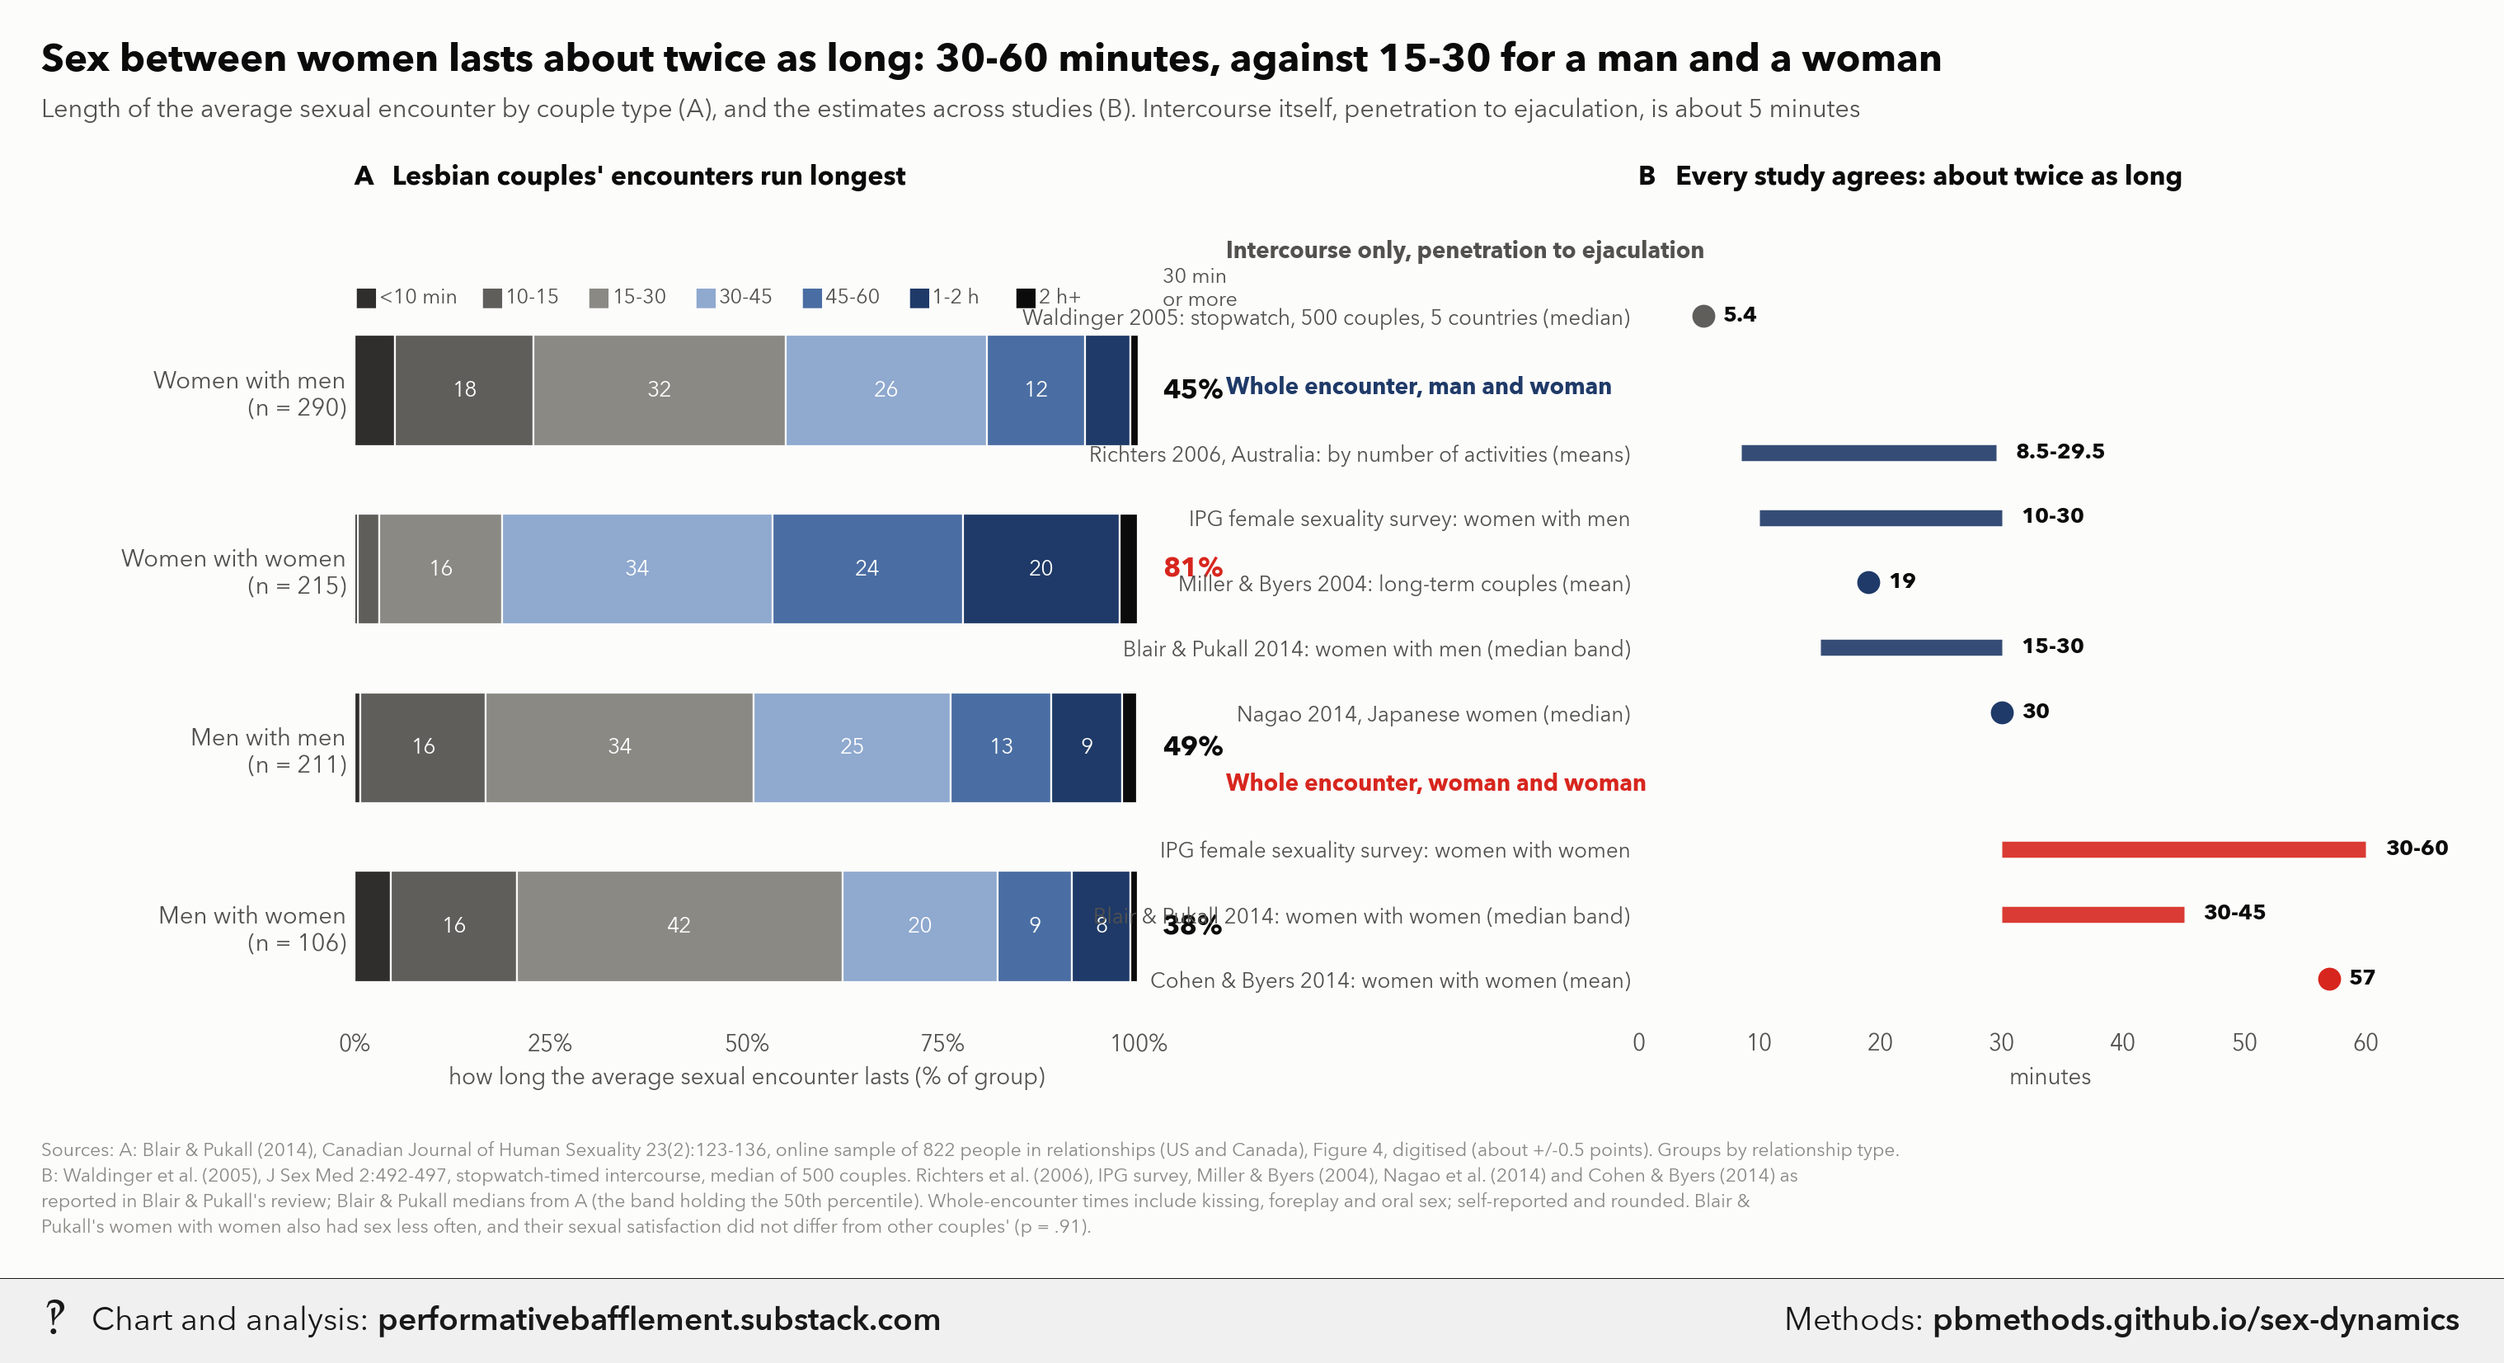
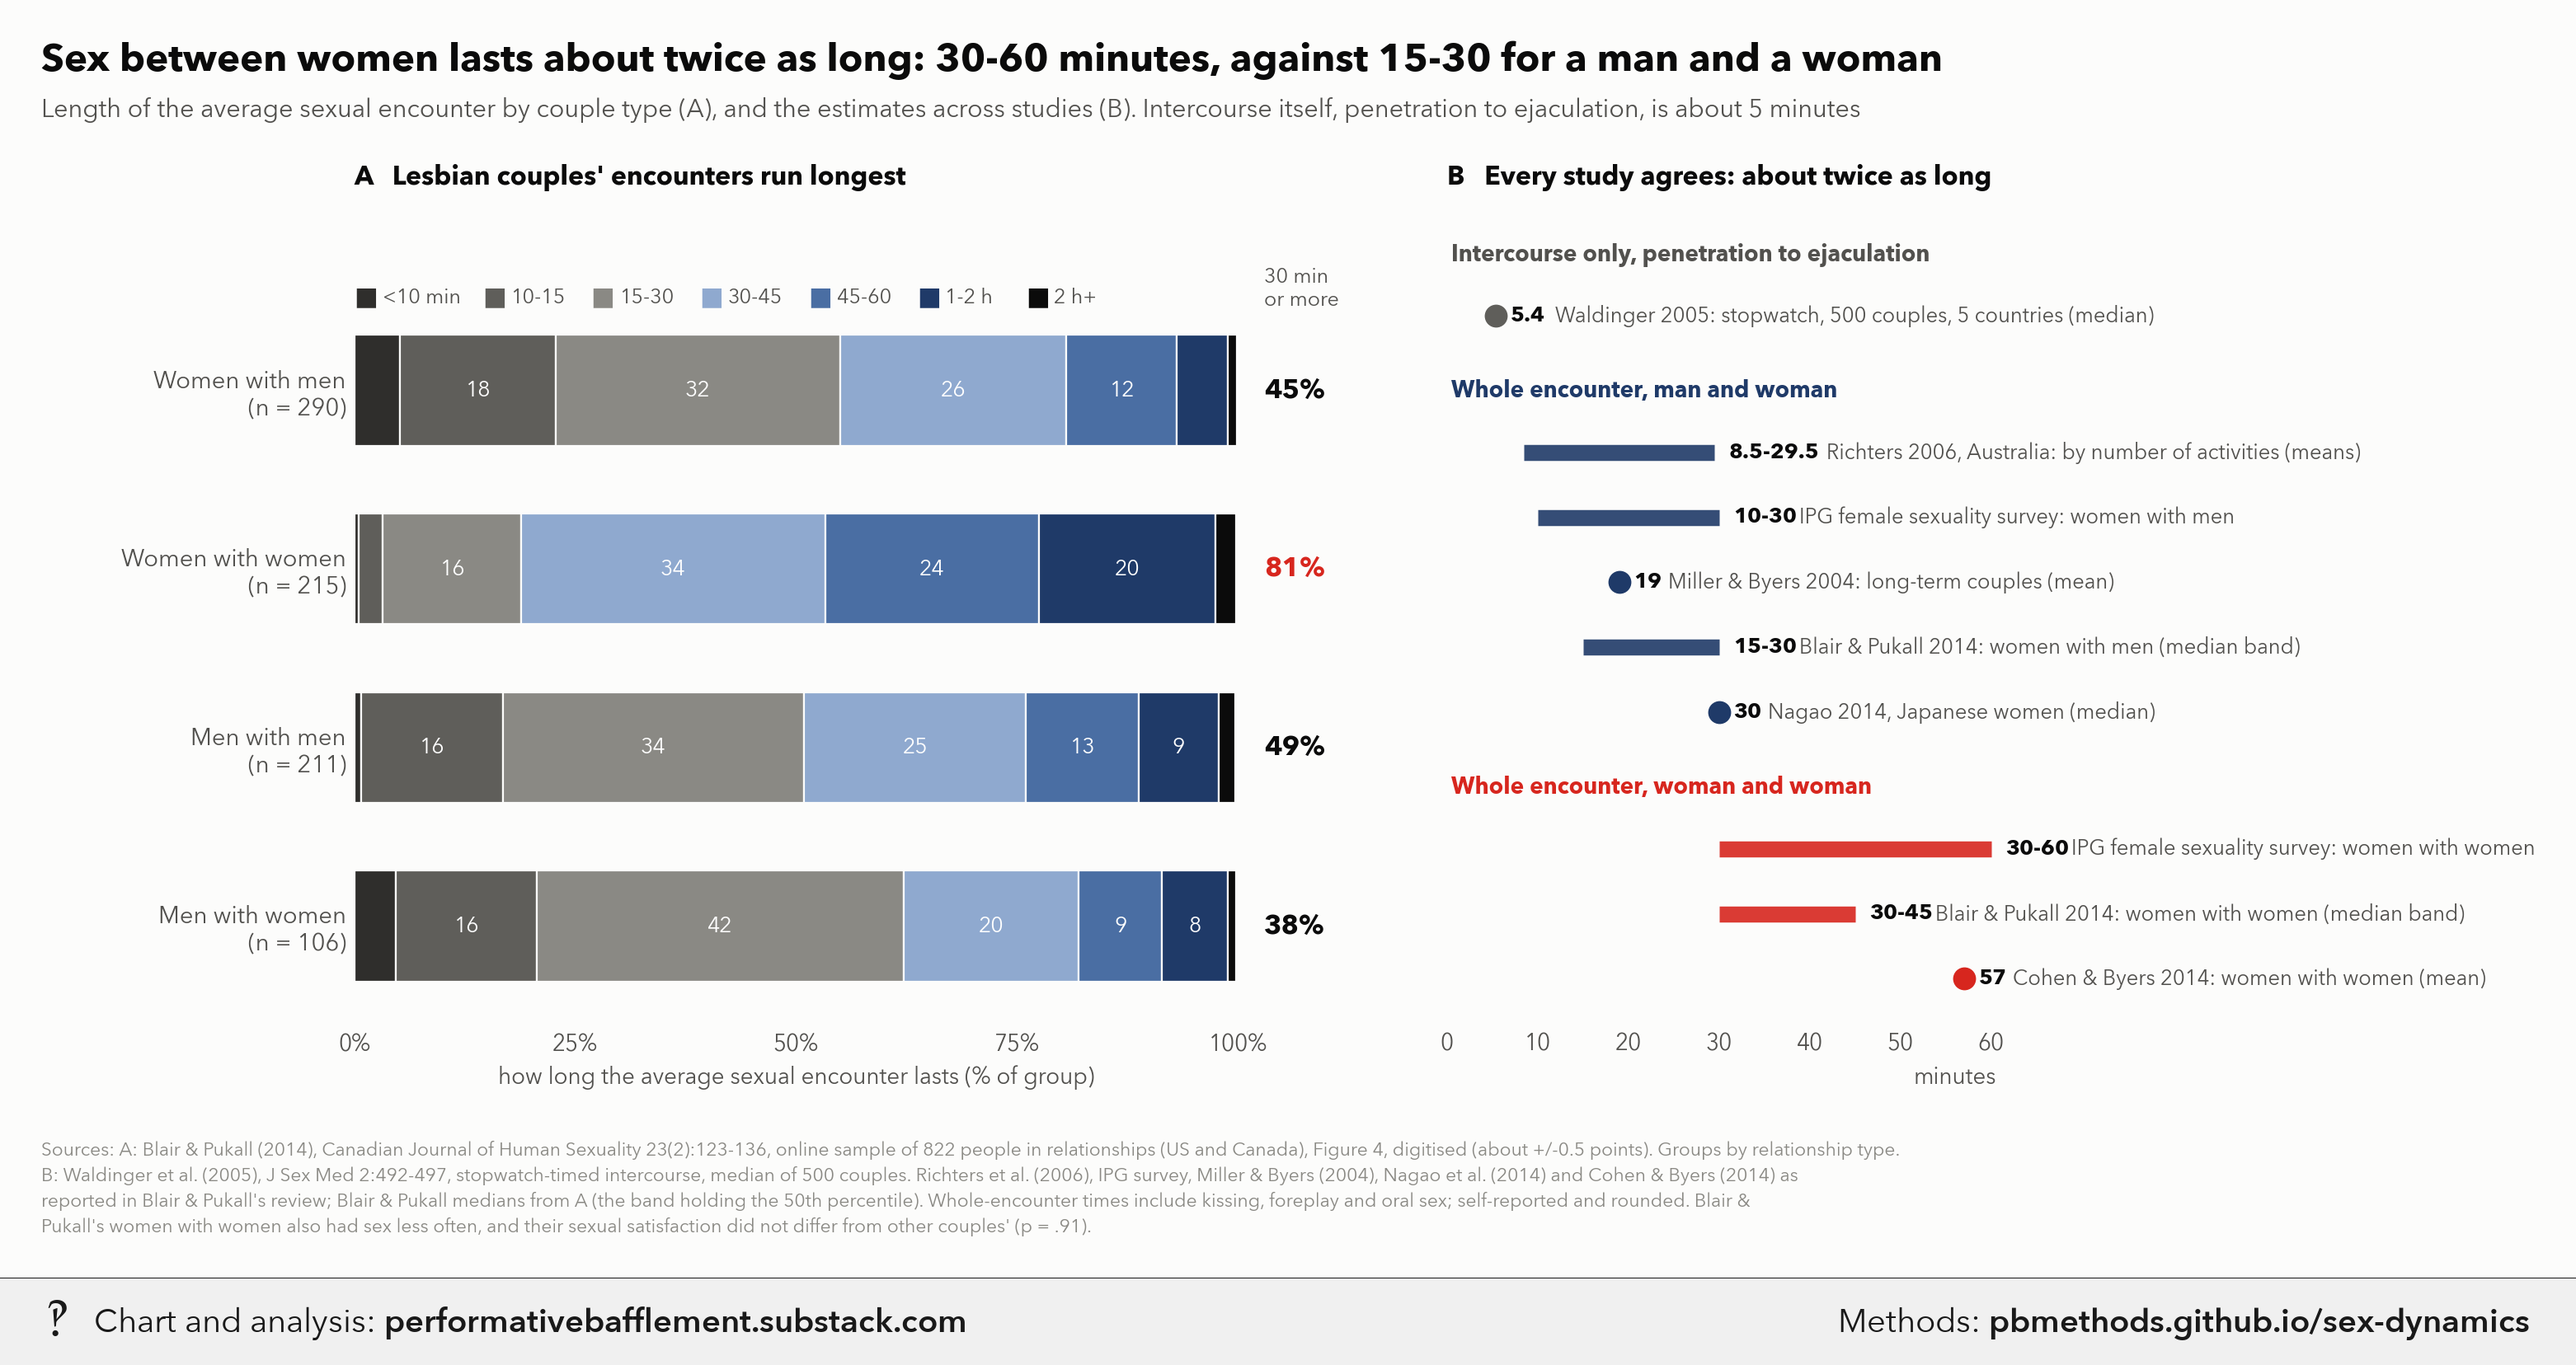
Update sex-dynamics

diff --git a/sex-dynamics/index.html b/sex-dynamics/index.html
@@ -6402,7 +6402,7 @@ save(fig, &quot;orgasm_trouble_drivers&quot;)
 # =============================================================== 15. how long sex lasts, by couple type
 bd = read(&quot;blair2014_duration.csv&quot;)
 st = read(&quot;sex_duration_studies.csv&quot;)
-fig, (ax, bx) = plt.subplots(1, 2, figsize=(16.5, 6.4), gridspec_kw=dict(width_ratios=[1, 1.05], wspace=0.62))
+fig, (ax, bx) = plt.subplots(1, 2, figsize=(16.5, 6.4), gridspec_kw=dict(width_ratios=[1, 1.15], wspace=0.22))
 BANDS = [(&quot;lt10&quot;, &quot;&lt;10 min&quot;, pb.GRAYS[2]), (&quot;m10_15&quot;, &quot;10-15&quot;, pb.GRAYS[1]), (&quot;m15_30&quot;, &quot;15-30&quot;, pb.GRAYS[0]),
          (&quot;m30_45&quot;, &quot;30-45&quot;, &quot;#8fa9cf&quot;), (&quot;m45_60&quot;, &quot;45-60&quot;, &quot;#4a6ea3&quot;), (&quot;h1_2&quot;, &quot;1-2 h&quot;, NAVY),
          (&quot;h2plus&quot;, &quot;2 h+&quot;, INK)]
@@ -6428,7 +6428,7 @@ x0 = 0
 for col, lab, c in BANDS:
     ax.text(x0, y[0] + 0.45, &quot;■&quot;, color=c, fontsize=11, va=&quot;bottom&quot;)
     ax.text(x0 + 3.2, y[0] + 0.46, lab, color=INK2, fontsize=9, va=&quot;bottom&quot;)
-    x0 += 13.6 if col != &quot;lt10&quot; else 16
+    x0 += 12.3 if col != &quot;lt10&quot; else 14.5
 ax.set_ylim(-0.55, y[0] + 1.0)
 ax.set_xlabel(&quot;how long the average sexual encounter lasts (% of group)&quot;)
 panel_title(ax, &quot;A&quot;, &quot;Lesbian couples' encounters run longest&quot;)
@@ -6447,12 +6447,12 @@ for kind in [&quot;ff&quot;, &quot;mf&quot;, &quot;ielt&quot;]:
             bx.plot([r.lo, r.hi], [yy, yy], color=c, lw=7, solid_capstyle=&quot;butt&quot;, alpha=0.9)
             txt = f&quot;{r.lo:g}-{r.hi:g}&quot;
         bx.text(max(r.hi, r.lo) + 1.6, yy, txt, va=&quot;center&quot;, fontsize=9.5, fontweight=&quot;bold&quot;, color=INK)
-        ticks.append(yy); labs.append(r.label); yy += 1
-    bx.text(-0.5, yy - 0.1, head, fontsize=10, fontweight=&quot;bold&quot;, color=c if kind != &quot;ielt&quot; else INK2,
-            transform=bx.get_yaxis_transform(), ha=&quot;left&quot;)
+        bx.text(max(r.hi, r.lo) + 1.6 + 1.15 * len(txt) + 1.5, yy, r.label, va=&quot;center&quot;, fontsize=9.2, color=INK2)
+        yy += 1
+    bx.text(0.5, yy - 0.15, head, fontsize=10, fontweight=&quot;bold&quot;, color=c if kind != &quot;ielt&quot; else INK2, ha=&quot;left&quot;)
     yy += 1.1
-bx.set_yticks(ticks, labs, fontsize=9.3)
-bx.set_xlim(0, 68); bx.set_xticks([0, 10, 20, 30, 40, 50, 60])
+bx.set_yticks([])
+bx.set_xlim(0, 112); bx.set_xticks([0, 10, 20, 30, 40, 50, 60])
 bx.set_ylim(-0.7, yy - 0.5); bx.grid(axis=&quot;y&quot;, visible=False)
 bx.set_xlabel(&quot;minutes&quot;)
 panel_title(bx, &quot;B&quot;, &quot;Every study agrees: about twice as long&quot;)

diff --git a/sex-dynamics/methods.md b/sex-dynamics/methods.md
@@ -2777,7 +2777,7 @@ save(fig, "orgasm_trouble_drivers")
 # =============================================================== 15. how long sex lasts, by couple type
 bd = read("blair2014_duration.csv")
 st = read("sex_duration_studies.csv")
-fig, (ax, bx) = plt.subplots(1, 2, figsize=(16.5, 6.4), gridspec_kw=dict(width_ratios=[1, 1.05], wspace=0.62))
+fig, (ax, bx) = plt.subplots(1, 2, figsize=(16.5, 6.4), gridspec_kw=dict(width_ratios=[1, 1.15], wspace=0.22))
 BANDS = [("lt10", "<10 min", pb.GRAYS[2]), ("m10_15", "10-15", pb.GRAYS[1]), ("m15_30", "15-30", pb.GRAYS[0]),
          ("m30_45", "30-45", "#8fa9cf"), ("m45_60", "45-60", "#4a6ea3"), ("h1_2", "1-2 h", NAVY),
          ("h2plus", "2 h+", INK)]
@@ -2803,7 +2803,7 @@ x0 = 0
 for col, lab, c in BANDS:
     ax.text(x0, y[0] + 0.45, "■", color=c, fontsize=11, va="bottom")
     ax.text(x0 + 3.2, y[0] + 0.46, lab, color=INK2, fontsize=9, va="bottom")
-    x0 += 13.6 if col != "lt10" else 16
+    x0 += 12.3 if col != "lt10" else 14.5
 ax.set_ylim(-0.55, y[0] + 1.0)
 ax.set_xlabel("how long the average sexual encounter lasts (% of group)")
 panel_title(ax, "A", "Lesbian couples' encounters run longest")
@@ -2822,12 +2822,12 @@ for kind in ["ff", "mf", "ielt"]:
             bx.plot([r.lo, r.hi], [yy, yy], color=c, lw=7, solid_capstyle="butt", alpha=0.9)
             txt = f"{r.lo:g}-{r.hi:g}"
         bx.text(max(r.hi, r.lo) + 1.6, yy, txt, va="center", fontsize=9.5, fontweight="bold", color=INK)
-        ticks.append(yy); labs.append(r.label); yy += 1
-    bx.text(-0.5, yy - 0.1, head, fontsize=10, fontweight="bold", color=c if kind != "ielt" else INK2,
-            transform=bx.get_yaxis_transform(), ha="left")
+        bx.text(max(r.hi, r.lo) + 1.6 + 1.15 * len(txt) + 1.5, yy, r.label, va="center", fontsize=9.2, color=INK2)
+        yy += 1
+    bx.text(0.5, yy - 0.15, head, fontsize=10, fontweight="bold", color=c if kind != "ielt" else INK2, ha="left")
     yy += 1.1
-bx.set_yticks(ticks, labs, fontsize=9.3)
-bx.set_xlim(0, 68); bx.set_xticks([0, 10, 20, 30, 40, 50, 60])
+bx.set_yticks([])
+bx.set_xlim(0, 112); bx.set_xticks([0, 10, 20, 30, 40, 50, 60])
 bx.set_ylim(-0.7, yy - 0.5); bx.grid(axis="y", visible=False)
 bx.set_xlabel("minutes")
 panel_title(bx, "B", "Every study agrees: about twice as long")
